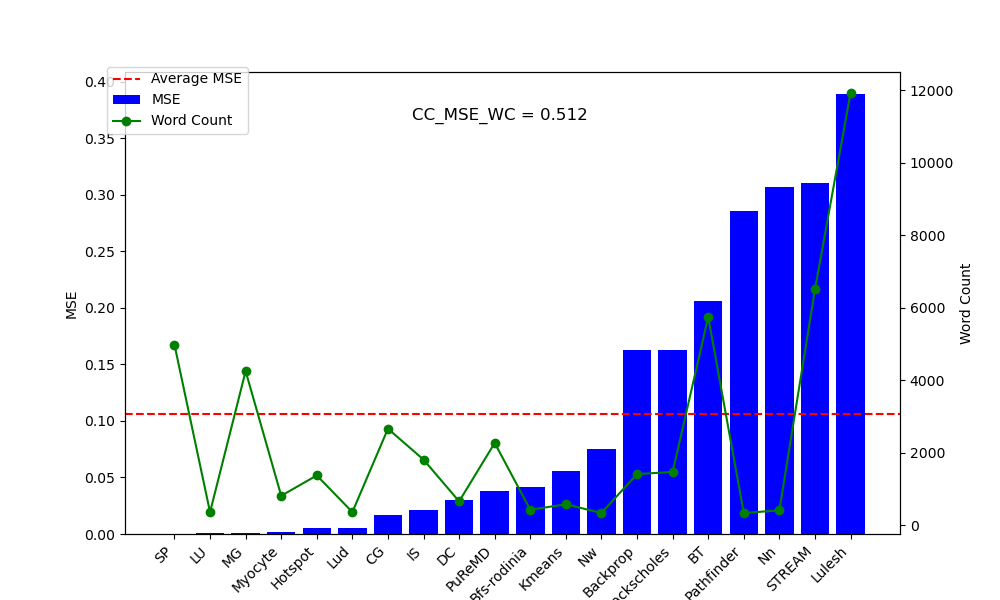
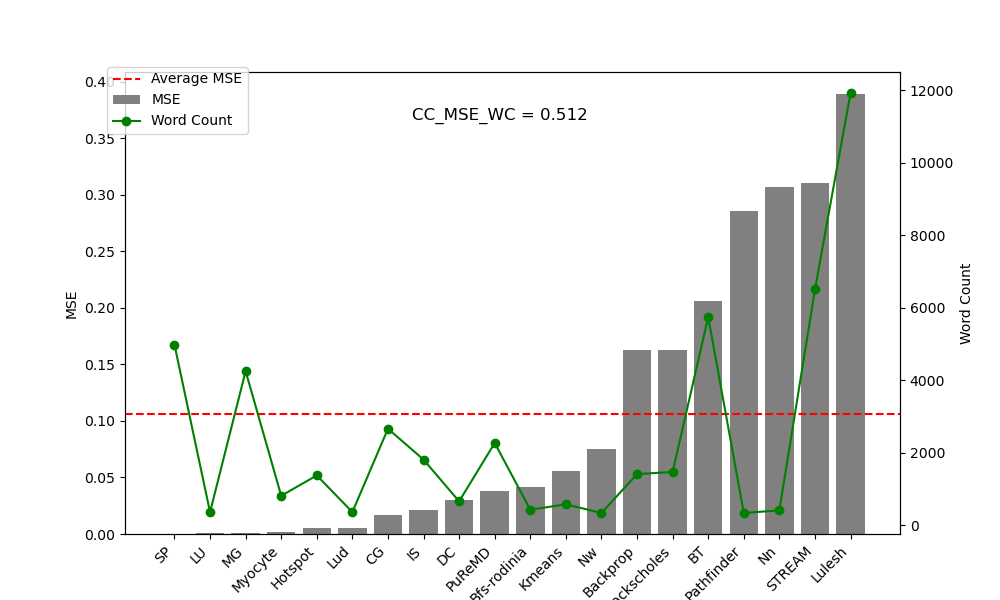
debug & plot csripts added

Changed region(s): [[0.279, 0.15, 0.868, 0.9], [0.093, 0.15, 0.155, 0.18]]

diff --git a/LSTM_drawplot_line.py b/LSTM_drawplot_line.py
@@ -1,0 +1,53 @@
+import pandas as pd
+import matplotlib.pyplot as plt
+
+# Data
+data = {
+    "BenchMark": ["IS", "LU", "Nn", "Myocyte", "Backprop", "CG", "MG", "BT", "SP", "DC", "Lud", "Kmeans", "STREAM", "Blackscholes", "PuReMD", "Lulesh", "Hotspot", "Bfs-rodinia", "Nw", "Pathfinder"],
+    "benign MSE": [0.009604, 0.001444, 0.032761, 0.081225, 0.031329, 0.073984, 0.113569, 0.0064, 0.2209, 0.0004, 0.105625, 0.251001, 0.048841, 0.013225, 0.281961, 0.003844, 0.042436, 0.008281, 0.015129, 0.0016],
+    "crash MSE": [0.0081, 0.013924, 0.000361, 0.022201, 0.000625, 0.159201, 0.042025, 0.075076, 0.000036, 0.016129, 0.200704, 0.173056, 0.042436, 0.039204, 0.299209, 0.0169, 0.093636, 0.034969, 0.055696, 0.118336],
+    "SDC MSE": [0.000361, 0.095481, 0.103041, 0.0361, 0.056644, 0.0441, 0.047089, 0.092416, 0.609961, 0.007056, 0.044944, 0.013924, 0.000729, 0.023409, 0.002601, 0.021609, 0.024649, 0.027225, 0.0441, 0.265225]
+}
+
+# Create DataFrame and sort by SDC MSE
+df = pd.DataFrame(data)
+df_sorted = df.sort_values("SDC MSE")
+
+# Plotting
+fig, ax = plt.subplots(figsize=(14, 7))
+ax.plot(df_sorted["BenchMark"], df_sorted["benign MSE"], label="Benign MSE", marker='v',color='blue')
+ax.plot(df_sorted["BenchMark"], df_sorted["crash MSE"], label="Crash MSE", marker='o',color='orange')
+ax.plot(df_sorted["BenchMark"], df_sorted["SDC MSE"], label="SDC MSE", marker='s',color='green')
+
+# Calculate and plot averages for each MSE category
+avg_benign_mse = df["benign MSE"].mean()
+avg_crash_mse = df["crash MSE"].mean()
+avg_sdc_mse = df["SDC MSE"].mean()
+
+ax.axhline(y=avg_benign_mse, color='blue', linestyle='--', label=f"Average Benign MSE: {avg_benign_mse:.4f}")
+ax.axhline(y=avg_crash_mse, color='orange', linestyle='--', label=f"Average Crash MSE: {avg_crash_mse:.4f}")
+ax.axhline(y=avg_sdc_mse, color='green', linestyle='--', label=f"Average SDC MSE: {avg_sdc_mse:.4f}")
+
+# Table data
+table_data=[
+    ["Benign MSE", "1.000", "0.605", "0.258"],
+    ["Crash MSE", "0.605", "1.000", "-0.194"],
+    ["SDC MSE", "0.258", "-0.194", "1.000"]
+]
+
+# Add table to the plot
+table = ax.table(cellText=table_data, colLabels=["CC", "Benign MSE", "Crash MSE", "SDC MSE"], loc='upper center', cellLoc='left')
+table.auto_set_font_size(False)
+table.set_fontsize(12)
+table.scale(0.5, 1.5)  # Adjust scale to match the plot aesthetics
+
+# Additional plot settings
+ax.set_xlabel("Benchmark")
+ax.set_ylabel("Mean Squared Error (MSE)")
+#ax.set_title("MSE Comparison Across Benchmarks")
+ax.legend(loc='upper left')
+plt.xticks(rotation=45)
+plt.subplots_adjust(left=0.05, bottom=0.1, right=0.99, top=0.99, wspace=0, hspace=0)
+plt.show()
+# Save the plot as PDF
+plt.savefig("LSTM_all_line.png")

diff --git a/PARIS_drawplot_line copy.py b/PARIS_drawplot_line copy.py
@@ -1,0 +1,54 @@
+import pandas as pd
+import matplotlib.pyplot as plt
+
+# Data
+data = {
+
+    "BenchMark":["SP", "LU", "MG", "Myocyte", "Lud", "CG", "IS", "DC", "PuReMD", "Bfs-rodinia", "Kmeans", "Nw", "Backprop", "Blackscholes", "BT", "Hotspot", "Pathfinder", "Nn", "STREAM", "Lulesh"],
+    "benign MSE":[0.2071, 0.0304, 0.1503, 0.0197, 0.0749, 0.0207, 0.0020, 0.0220, 0.1697, 0.0003, 0.1122, 0.0411, 0.1941, 0.1023, 0.0480, 0.0111, 0.1036, 0.4476, 0.1174, 0.3318],
+    "crash MSE":[0.2088, 0.0912, 0.1302, 0.0049, 0.0236, 0.0010, 0.0422, 0.0273, 0.0000, 0.0028, 0.0153, 0.0034, 0.0278, 0.0001, 0.2369, 0.5635, 0.0070, 0.0032, 0.0084, 0.0175],
+    "SDC MSE":[0.0001, 0.0006, 0.0012, 0.0018, 0.0054, 0.0168, 0.0217, 0.0303, 0.0375, 0.0412, 0.0559, 0.0751, 0.1626, 0.1631, 0.2059, 0.2318, 0.2860, 0.3069, 0.3102, 0.3894]
+}
+
+# Create DataFrame and sort by SDC MSE
+df = pd.DataFrame(data)
+df_sorted = df.sort_values("SDC MSE")
+
+# Plotting
+fig, ax = plt.subplots(figsize=(14, 7))
+ax.plot(df_sorted["BenchMark"], df_sorted["benign MSE"], label="Benign MSE", marker='v',color='blue')
+ax.plot(df_sorted["BenchMark"], df_sorted["crash MSE"], label="Crash MSE", marker='o',color='orange')
+ax.plot(df_sorted["BenchMark"], df_sorted["SDC MSE"], label="SDC MSE", marker='s',color='green')
+
+# Calculate and plot averages for each MSE category
+avg_benign_mse = df["benign MSE"].mean()
+avg_crash_mse = df["crash MSE"].mean()
+avg_sdc_mse = df["SDC MSE"].mean()
+
+ax.axhline(y=avg_benign_mse, color='blue', linestyle='--', label=f"Average Benign MSE: {avg_benign_mse:.4f}")
+ax.axhline(y=avg_crash_mse, color='orange', linestyle='--', label=f"Average Crash MSE: {avg_crash_mse:.4f}")
+ax.axhline(y=avg_sdc_mse, color='green', linestyle='--', label=f"Average SDC MSE: {avg_sdc_mse:.4f}")
+
+# Table data
+table_data=[
+    ["Benign MSE", "1.000", "-1.807", "0.536"],
+    ["Crash MSE", "-1.807", "1.000", "0.103"],
+    ["SDC MSE", "0.536", "0.103", "1.000"]
+]
+
+# Add table to the plot
+table = ax.table(cellText=table_data, colLabels=["CC", "Benign MSE", "Crash MSE", "SDC MSE"], loc='upper center', cellLoc='left')
+table.auto_set_font_size(False)
+table.set_fontsize(12)
+table.scale(0.5, 1.5)  # Adjust scale to match the plot aesthetics
+
+# Additional plot settings
+ax.set_xlabel("Benchmark")
+ax.set_ylabel("Mean Squared Error (MSE)")
+#ax.set_title("MSE Comparison Across Benchmarks")
+ax.legend(loc='upper left')
+plt.xticks(rotation=45)
+plt.subplots_adjust(left=0.05, bottom=0.1, right=0.99, top=0.99, wspace=0, hspace=0)
+plt.show()
+# Save the plot as PDF
+plt.savefig("PARIS_all_line.png")

diff --git a/LSTM_drawplot.py b/LSTM_drawplot.py
@@ -1,0 +1,52 @@
+import pandas as pd
+import matplotlib.pyplot as plt
+import numpy as np
+
+# Creating the DataFrame
+data = {
+    "BenchMark": ["IS", "LU", "Nn", "Myocyte", "Backprop", "CG", "MG", "BT", "SP", "DC",
+                  "Lud", "Kmeans", "STREAM", "Blackscholes", "PuReMD", "Lulesh", "Hotspot", "Bfs-rodinia", "Nw", "Pathfinder"],
+    "benign MSE": [0.009604, 0.001444, 0.032761, 0.081225, 0.031329, 0.073984, 0.113569, 0.0064, 0.2209, 0.0004,
+                   0.105625, 0.251001, 0.048841, 0.013225, 0.281961, 0.003844, 0.042436, 0.008281, 0.015129, 0.0016],
+    "crash MSE": [0.0081, 0.013924, 0.000361, 0.022201, 0.000625, 0.159201, 0.042025, 0.075076, 0.000036, 0.016129,
+                  0.200704, 0.173056, 0.042436, 0.039204, 0.299209, 0.0169, 0.093636, 0.034969, 0.055696, 0.118336],
+    "SDC MSE": [0.000361, 0.095481, 0.103041, 0.0361, 0.056644, 0.0441, 0.047089, 0.092416, 0.609961, 0.007056,
+                0.044944, 0.013924, 0.000729, 0.023409, 0.002601, 0.021609, 0.024649, 0.027225, 0.0441, 0.265225]
+}
+
+df = pd.DataFrame(data)
+df = df.sort_values(by="SDC MSE", ascending=True)
+
+# Plotting
+fig, ax = plt.subplots(figsize=(14, 8))
+x = np.arange(len(df['BenchMark']))
+width = 0.25
+
+# Bars for MSE
+rects1 = ax.bar(x - width, df['benign MSE'], width, label='Benign MSE',color='b')
+rects2 = ax.bar(x, df['crash MSE'], width, label='Crash MSE',color='orange')
+rects3 = ax.bar(x + width, df['SDC MSE'], width, label='SDC MSE',color='g')
+
+# Lines for average MSE
+benign_avg = df['benign MSE'].mean()
+crash_avg = df['crash MSE'].mean()
+sdc_avg = df['SDC MSE'].mean()
+
+ax.axhline(y=benign_avg, color='b', linestyle='-', label=f'Avg Benign MSE: {benign_avg:.4f}')
+ax.axhline(y=crash_avg, color='orange', linestyle='-', label=f'Avg Crash MSE: {crash_avg:.4f}')
+ax.axhline(y=sdc_avg, color='g', linestyle='-', label=f'Avg SDC MSE: {sdc_avg:.4f}')
+
+# Labels and settings
+ax.set_xlabel('BenchMark')
+ax.set_ylabel('MSE Values')
+#ax.set_title('MSE Comparison by BenchMark')
+ax.set_xticks(x)
+ax.set_xticklabels(df['BenchMark'], rotation=45)
+ax.legend()
+
+# Remove grid lines
+ax.grid(False)
+
+plt.show()
+# Save the plot as PDF
+plt.savefig("LSTM_all.png")

diff --git a/drawplot_paris.py b/drawplot_paris.py
@@ -1,0 +1,52 @@
+import pandas as pd
+import matplotlib.pyplot as plt
+
+# Load the DataFrame from a CSV file.
+# Make sure to update the file path according to your CSV structure.
+df = pd.read_csv("result.csv")
+
+# Check column names to ensure they are correct
+print(df.columns)
+
+# Calculate Mean Squared Error (MSE) between Predicted_Label and Actual_Label
+df['MSE'] = (df['Obs_SDC_Norm'] - df['PARIS_SDC_Norm']) ** 2
+
+# Sort data by MSE
+df_sorted = df.sort_values(by='MSE')
+
+# Create a plot
+fig, ax1 = plt.subplots(figsize=(10, 6))
+
+# Histogram for MSE
+ax1.bar(df_sorted['BenchMark'], df_sorted['MSE'], color="grey", label='MSE')
+ax1.set_xlabel('BenchMark')
+ax1.set_ylabel('MSE')
+ax1.set_xticks(df_sorted['BenchMark'])
+ax1.set_xticklabels(df_sorted['BenchMark'], rotation=45, ha="right")
+
+# Line chart for wordCount on a secondary y-axis
+ax2 = ax1.twinx()
+ax2.plot(df_sorted['BenchMark'], df_sorted['wordCount'], color='green', marker='o', label='Word Count')  # Make sure this matches exactly
+ax2.set_ylabel('Word Count')
+
+# Compute the average MSE
+avg_mse = df['MSE'].mean()
+
+# Add a line for the average MSE
+ax1.axhline(avg_mse, color='red', linestyle='--', label='Average MSE')
+
+# Add custom text regarding the CC_MSE_WC value
+plt.figtext(0.5, 0.8, "CC_MSE_WC = 0.512", ha="center", fontsize=12, color='black')
+
+
+# Legend
+fig.legend(loc='upper left', bbox_to_anchor=(0.1, 0.9))
+
+# Removing grid lines
+ax1.grid(False)
+ax2.grid(False)
+
+# Save the plot as PDF
+plt.savefig("PARIS_SDC.png")
+
+plt.show()

diff --git a/code/BERTRegression_chunck_max.py b/code/BERTRegression_chunck_max.py
@@ -14,8 +14,8 @@ from transformers import (WEIGHTS_NAME, AdamW, get_linear_schedule_with_warmup,
 from transformers import LongformerConfig, LongformerModel
 
 
-trainDataPath = "../dataset/SDC_train_resilience_r.jsonl"
-evalDataPath = "../dataset/SDC_test_resilience_r.jsonl"
+trainDataPath = "../dataset/benign_train_resilience_r.jsonl"
+evalDataPath = "../dataset/benign_test_resilience_r.jsonl"
 train_data = pd.DataFrame( {"code": [], "label": []}) 
 eval_data = pd.DataFrame( columns=['code', 'label'])
 
